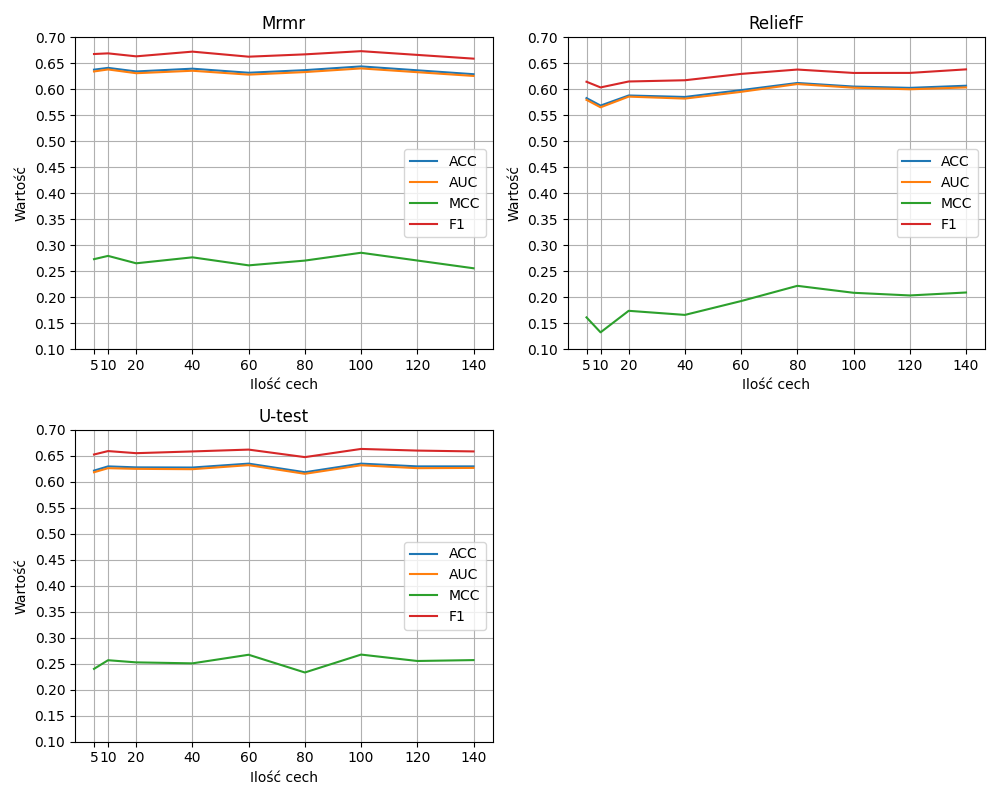
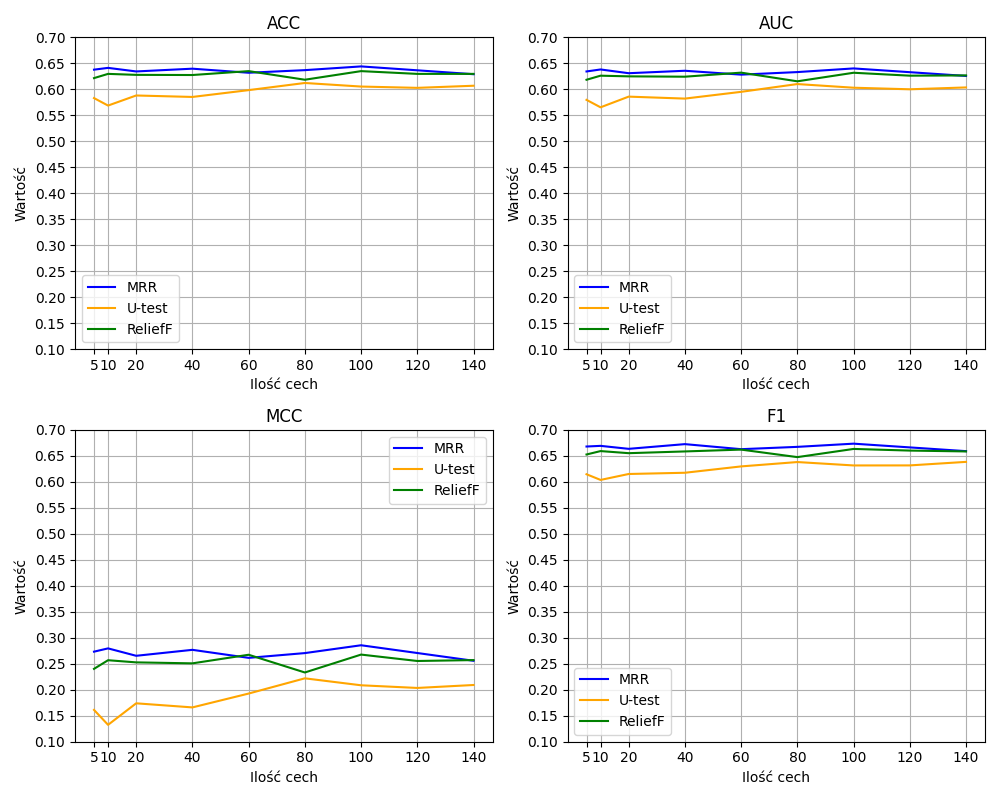
change Utest and some visualization staff

diff --git a/src/visualization/visualize.py b/src/visualization/visualize.py
@@ -5,6 +5,7 @@ from sklearn.metrics import confusion_matrix
 import numpy as np
 import matplotlib.pyplot as plt
 from config.load_config import load_config
+from features.filters import filters
 
 config = load_config("my_configuration.yaml")
 
@@ -37,7 +38,7 @@ def plot_confusion_matrix(y_test, y_pred):
     plt.show()
 
 
-def venn_diagram(set1, set2, set3):
+def venn_diagram(X,y):
     """
     Plot a Venn diagram for three sets.
 
@@ -52,12 +53,21 @@ def venn_diagram(set1, set2, set3):
     Raises:
     TypeError: If any of the sets are not list or array-like.
     """
-    set1format = set(tuple(pd.DataFrame(set1)))
-    set2format = set(tuple(pd.DataFrame(set2)))
-    set3format = set(tuple(pd.DataFrame(set3)))
-    venn3([set1format, set2format, set3format], ("Set 1", "set 2", "set3"))
+    set1 = filters(X,y,"ReliefF")
+    set2 = filters(X, y, "Mrmr")
+    set3 = filters(X, y, "U-test")
+
+    print(set1)
+    print(set2)
+    print(set3)
+
+    set1format = set(tuple(set1))
+    set2format = set(tuple(set2))
+    set3format = set(tuple(set3))
+
+    venn_diagram = venn3([set1format, set2format, set3format], ("Set 1", "Set 2", "Set 3"))
     plt.show()
-    plt.savefig('././reports/figures/venn.png')
+    #plt.savefig('../../reports/figures/venn.png')
 
 
 def compare_scores():
@@ -74,23 +84,24 @@ def compare_scores():
     fig, axes = plt.subplots(2, 2, figsize=(10, 8))
 
     # Iteracja przez DataFrame'y i tworzenie wykresów
-    for i, df in enumerate(dataframes):
-        x = df['Number of Features']
-        y_acc = df['ACC']
-        y_auc = df['AUC']
-        y_mcc = df['MCC']
-        y_f1 = df['F1']
+    metrics = ['ACC', 'AUC', 'MCC', 'F1']
+    colors = ['blue', 'orange', 'green']
+    algorithms = ['MRR', 'U-test', 'ReliefF']
 
+    for i, metric in enumerate(metrics):
         row = i // 2  # Wiersz podwykresu
         col = i % 2  # Kolumna podwykresu
 
-        axes[row, col].plot(x, y_acc, label='ACC')
-        axes[row, col].plot(x, y_auc, label='AUC')
-        axes[row, col].plot(x, y_mcc, label='MCC')
-        axes[row, col].plot(x, y_f1, label='F1')
         axes[row, col].set_xlabel("Ilość cech")
         axes[row, col].set_ylabel("Wartość")
-        axes[row, col].set_title(titles[i])
+        axes[row, col].set_title(metric)
+
+        for j, df in enumerate(dataframes):
+            x = df['Number of Features']
+            y = df[metric]
+
+            axes[row, col].plot(x, y, label=algorithms[j], color=colors[j])
+
         axes[row, col].legend()
         x_ticks = [5, 10, 20, 40, 60, 80, 100, 120, 140]
         axes[row, col].set_xticks(x_ticks)
@@ -98,7 +109,6 @@ def compare_scores():
         axes[row, col].set_yticks(y_ticks)
         axes[row, col].grid(True)
 
-    fig.delaxes(axes[1, 1])
 
     # Dopasowanie wykresów w układzie
     plt.tight_layout()

diff --git a/src/features/filters.py b/src/features/filters.py
@@ -1,4 +1,4 @@
-# import mdfs
+import mdfs
 import numpy as np
 import pandas as pd
 from mrmr import mrmr_classif
@@ -8,7 +8,6 @@ from config.load_config import load_config
 from ReliefF import ReliefF
 
 config = load_config("my_configuration.yaml")
-
 
 
 def filters(x, y, module, num_of_features=config['n_features']):
@@ -33,8 +32,9 @@ def filters(x, y, module, num_of_features=config['n_features']):
     if module == "ReliefF":
         print("Trwa selekcja cech metoda ReliefF....")
         rf = ReliefF(n_features_to_keep=num_of_features, n_neighbors=5)
-        features = rf.fit_transform(x, y)
+        rf.fit_transform(x, y)
         selected_feature_indices = rf.top_features[:rf.n_features_to_keep]
+        print(selected_feature_indices)
         return selected_feature_indices
     elif module == "Mrmr":
         X = pd.DataFrame(x)
@@ -44,11 +44,12 @@ def filters(x, y, module, num_of_features=config['n_features']):
         return features.index
     elif module == "U-test":
         print("Trwa selekcja cech metoda U-test....")
-        X_feature = utest(x, y, )
+        X_feature = utest(x, y,num_of_features )
         return X_feature
-    # elif module == "MDFS":
-    #     y = y.astype(np.int32)
-    #     mdfs_feature = mdfs.run(x, y)
-    #     return mdfs_feature.copy()
-
-    # https://github.com/biocsuwb/EnsembleFS-package/blob/main/R/fs.mdfs.1D.R
+    elif module == "MDFS":
+        print("Trwa selekcja cech metoda MDFS....")
+        y = y.astype(np.int32)
+        my_array = np.asfortranarray(x)
+        mdfs_feature = mdfs.run(my_array, y, n_contrast=1)
+        print(mdfs_feature['relevant_variables'])
+        return mdfs_feature['relevant_variables']

diff --git a/src/features/UtestFeatureSelection.py b/src/features/UtestFeatureSelection.py
@@ -1,7 +1,7 @@
 import numpy as np
 from scipy.stats import mannwhitneyu
 
-def utest(X, y, alpha=0.05):
+def utest(X, y, num_features ,alpha=0.05):
     """
     Wybiera cechy z użyciem testu U-Manna.
 
@@ -9,20 +9,24 @@ def utest(X, y, alpha=0.05):
     X (array-like): Macierz cech, gdzie wiersze to próbki, a kolumny to cechy.
     y (array-like): Wektor wartości docelowych.
     alpha (float): Poziom istotności testu (domyślnie 0.05).
+    num_features (int): Liczba najważniejszych cech do wybrania (domyślnie 100).
 
     Zwraca:
     selected_features (list): Lista indeksów wybranych cech.
 
     """
 
-    num_features = X.shape[1]
-    selected_features = []
+    num_all_features = X.shape[1]
+    p_values = []
 
-    for i in range(num_features):
+    for i in range(num_all_features):
         feature_values = X[:, i]
         stat, p_value = mannwhitneyu(feature_values[y == 0], feature_values[y == 1], alternative='two-sided')
+        p_values.append((i, p_value))
 
-        if p_value <= alpha:
-            selected_features.append(i)
+    # Sortowanie p-wartości w porządku rosnącym
+    p_values.sort(key=lambda x: x[1])
 
-    return [idx for idx, _ in enumerate(selected_features)]
+    selected_features = [idx for idx, _ in p_values[:num_features]]
+
+    return selected_features

diff --git a/src/main.py b/src/main.py
@@ -7,16 +7,21 @@ from crossValidation.run_cv import run_cv
 from visualization.visualize import compare_scores
 from evaluate.max_values import max_values
 from visualization.visualize import time_compare
+from visualization.visualize import venn_diagram
+
+
 if __name__ == "__main__":
-    # t0 = time.time()
-    #
-    # config = load_config("my_configuration.yaml")
-    #
-    # X, y, df = read_and_preprocess_data(os.path.join(config["data_directory"], config["data_name"]))
-    #
-    # lst_acc, lst_auc, lst_f1, lst_mcc, lst_amc = run_cv(X, y, config)
-    #
-    # evaluate_model_mean(lst_acc, lst_auc, lst_mcc, lst_f1, time.time() - t0, lst_amc)
-    # compare_scores()
-    # time_compare()
-    max_values()
+
+    t0 = time.time()
+    config = load_config("my_configuration.yaml")
+
+    if config['mode'] == 'score':
+        X, y, df = read_and_preprocess_data(os.path.join(config["data_directory"], config["data_name"]))
+        lst_acc, lst_auc, lst_f1, lst_mcc, lst_amc = run_cv(X, y, config)
+        evaluate_model_mean(lst_acc, lst_auc, lst_mcc, lst_f1, time.time() - t0, lst_amc)
+    else:
+        X, y, df = read_and_preprocess_data(os.path.join(config["data_directory"], config["data_name"]))
+        compare_scores()
+        time_compare()
+        max_values()
+        venn_diagram(X,y)

diff --git a/src/evaluate/max_values.py b/src/evaluate/max_values.py
@@ -54,12 +54,12 @@ def max_values():
     best_performance2 = find_best_performance(data2)
     best_performance3 = find_best_performance(data3)
 
-    print("Najlepsze wyniki dla pliku 1:")
+    print("Najlepsze wyniki dla pliku MRMR:")
     print(best_performance1)
 
-    print("Najlepsze wyniki dla pliku 2:")
+    print("Najlepsze wyniki dla pliku ReliefF:")
     print(best_performance2)
 
-    print("Najlepsze wyniki dla pliku 3:")
+    print("Najlepsze wyniki dla pliku U-test:")
     print(best_performance3)
 
